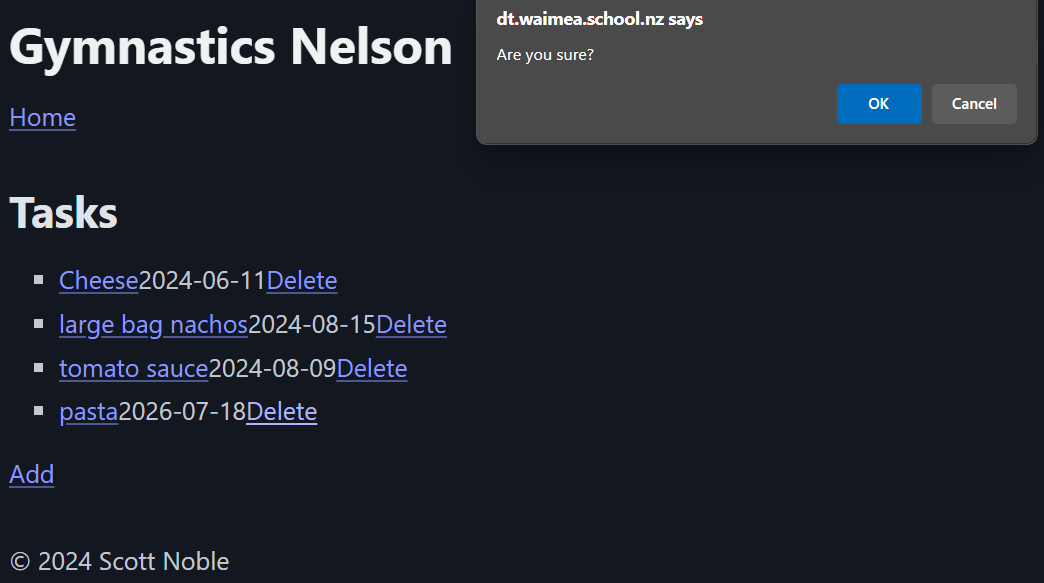
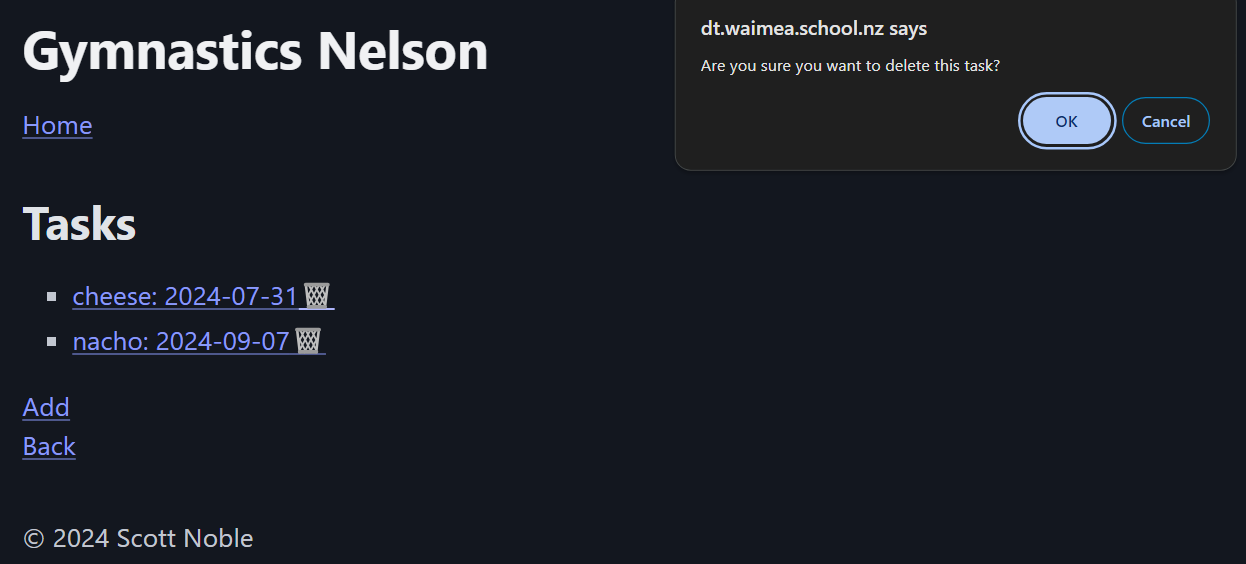
documenting css

diff --git a/site/css/styles.css b/site/css/styles.css
@@ -126,6 +126,7 @@ main {
     margin-bottom: 0.3rem;
     display: flex;
     width: 100%;
+    max-width: 16rem;
     justify-content: space-between;
     gap: 1rem;
     background-color: #4872FA;
@@ -222,7 +223,8 @@ table {
 /* FORMS**************************************************** */
 
 form {
-    width: 15rem;
+    width: 100%;
+    max-width: 15rem;
     margin: 1rem auto;
     padding: 1rem;
     border: 1px solid #369;

diff --git a/site/email-form.php b/site/email-form.php
@@ -32,6 +32,7 @@ echo '<h1>Sign Up: ' . $task['name'] . '</h1>';
     <input name="email" type="email" placeholder="e.g. 123@gmail.com" required>
 
     <input type="submit" value="Submit">
+    <input type="button" value="back" onclick="history.back()" style="color:white"/> 
 
     
 </form>
@@ -41,10 +42,5 @@ echo '<h1>Sign Up: ' . $task['name'] . '</h1>';
 <?php
 echo '</ul>';
 
-echo '<div id="back-button">
-        <a href="javascript:history.back()">
-            Back
-        </a>
-    </div>';
 include 'partials/bottom.php';
 ?>

diff --git a/site/user-details-form.php b/site/user-details-form.php
@@ -40,17 +40,13 @@ echo '<p>Your details are not in our database, so please enter them below...';
     <input name="email" type="email" placeholder="e.g. 123@gmail.com" required>
 
     <input type="submit" value="Submit">
+    <input type="button" value="back" onclick="history.back()" style="color:white"/> 
     
 </form>
 
 <?php
 echo '</ul>';
 
-echo '<div id="back-button">
-        <a href="javascript:history.back()">
-            Back
-        </a>
-    </div>';
 
 include 'partials/bottom.php';
 ?>

diff --git a/site/login-form.php b/site/login-form.php
@@ -8,8 +8,8 @@ include 'partials/top.php';
 
 <form method="post" action="admin-login.php">
 
-    <label>Name</label>
-    <input name="username" type="text" placeholder="e.g. Happygames" required>
+    <label>Username</label>
+    <input name="username" type="text" placeholder="e.g. Username" required>
 
     <label>Password</label>
     <input name="password" type="password" placeholder="e.g. password" required>

diff --git a/site/admin-task-list.php b/site/admin-task-list.php
@@ -37,7 +37,7 @@ foreach($tasks as $task) {
 
 
     echo '<a href="delete-task.php?id=' . $task['id'] . '"
-    onclick="return confirm(`Are you sure?`);">🗑</a>';
+    onclick="return confirm(`Are you sure you want to delete this task?`);">🗑</a>';
 
     echo '</li>';
 }

diff --git a/docs/Development.md b/docs/Development.md
@@ -107,50 +107,103 @@ My client also said
 I responded to my clients feedback by putting a thin strip of red under the title. My client id happy with the final result.
 
 #
+
 I talked to my client before I started just to see if they had had any thought of any improvements that can be made to the website before I start the first draft and they said
 >I think it will be a good idea to add a home button so the user wont have to click back multiple times to get back to the home page.
 
 I finished the home page and task page and added a home button to lead back to the home page
 
-![task list](images/task-list.png)
+![category list](images/category-list.png)
+
+![Task list](images/task-list.png)
+
+
 
 #
-I finished the task booking form
-![task booking form](images/task-signup.png)
+
+I finished the task booking form so the user can select and sign up for a task.
+
+![user details form](images/user-details-form.png)
 
 
 #
-I added the option for the admin to login
+
+I added the option for the admin to login using a username and password.
+![admin login button](images/category-listv2.png)
 ![admin login](images/admin-login.png)
 
 
 #
 
-Today I finished the admin task list and the list of the people who have booked each task along with their contact information.
+Today I finished the admin category and task list, the logout button, and the list of the people who have booked each task along with their contact information.
+![Admin category list](images/admin-category-list.png)
+![Admin task list](images/admin-task-list.png)
+![User details](images/user-details.png)
 
 #
 
-Today I added the options for the aadmin to delete a task and add a task
-![delete task](images/delete-task.png)
+Today I added the options for the admin to delete a task from the database and add a task to the database.
+![alt text](images/delete-task.png)
 
 ![add task](images/add-task.png)
 
+After adding the add task form I realised that it would be annoying for the admin to type out the category every time.
+I solved this by having a dropdown menu with all of the existing tasks, and also having a new option which allows the admin to manually type a new category.
+
+
+![add task v2](images/add-taskv2.png)
+
+![category dropdown menu](images/category-selection.png)
+
+![category dropdown menu new](images/category-selection-new.png)
 
 #
 I realised that if a user is signing up for multiple tasks they wont want to fill out the form every time. I changed this by asking the user for only their email when they are signing up for a task. If they have previously signed up for a task they won't need to fill out the form, but if they have not signed for a task they will be asked to fill out their details in the form.
 
 ![ask for email](images/email-form.png)
 
-![user details form](images/user-details.png)
+![user details form](images/user-details-formv2.png)
 
 # 11/08/2024
 Ishowed this initial draft to my client and they said
 >It works very nicely but I have just realised that there is no limited amount of tasks available. This means 100 people can book the same task which is a problem if there is only 5 people needed.
 
-![Limited number of tasks added to website draft](images/amount-remaining.png)
+![database](images/database.png)
+
+For this to work I needed to add an amount column to the database.
+
+![limited number of tasks available](images/amount-remaining.png)
 
 I listened to my client and added a limit to how many tasks can be booked
 
-![database](images/database.png)
+![add task with amount](images/add-taskv3.png)
 
-I also needed to add an amount column to the database
+This means I also had to change the add task form so the admin can set an amont available for each task
+
+![not showing if amount = 0](images/amount=0-database.png)
+
+I also made sure that a task will not be displayed if the amount remaining is 0. This is so a user cannot signup for a task that is not needed anymore.
+
+I showed my client how I had add a limited amount of tasks and how it didn't display if there was none remaing.
+They were very pleased and said
+>This looks really good and functions nicely, now all thats needed is the colouring.
+
+#
+
+![css home page](images/css-home-page.png)
+
+![css task list](images/css-task-list.png)
+
+![css email form](images/css-email-form.png)
+
+![css user details form](images/css-user-details-form.png)
+
+![css admin login form](images/css-admin-login-form.png)
+
+![css admin home page](images/css-admin-home-page.png)
+
+![css admin task list](images/css-admin-task-list.png)
+
+![css new task](images/css-new-task-1.png)
+
+![css new task](images/css-new-task-2.png)
